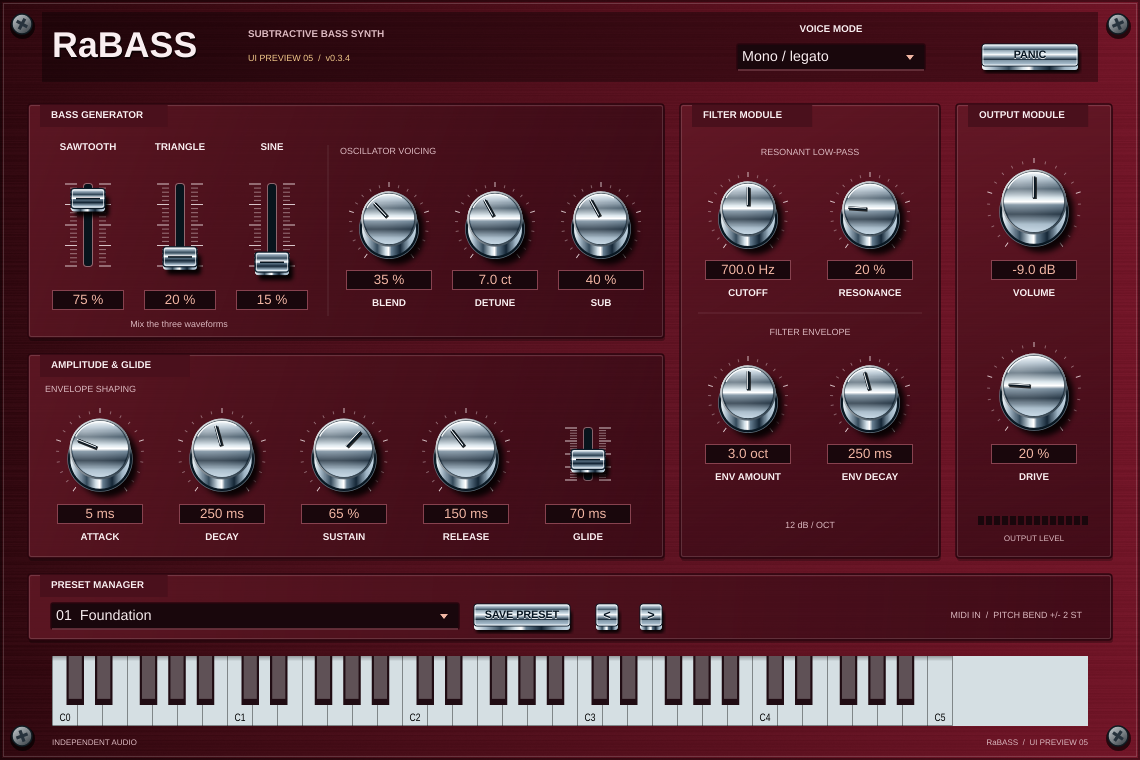
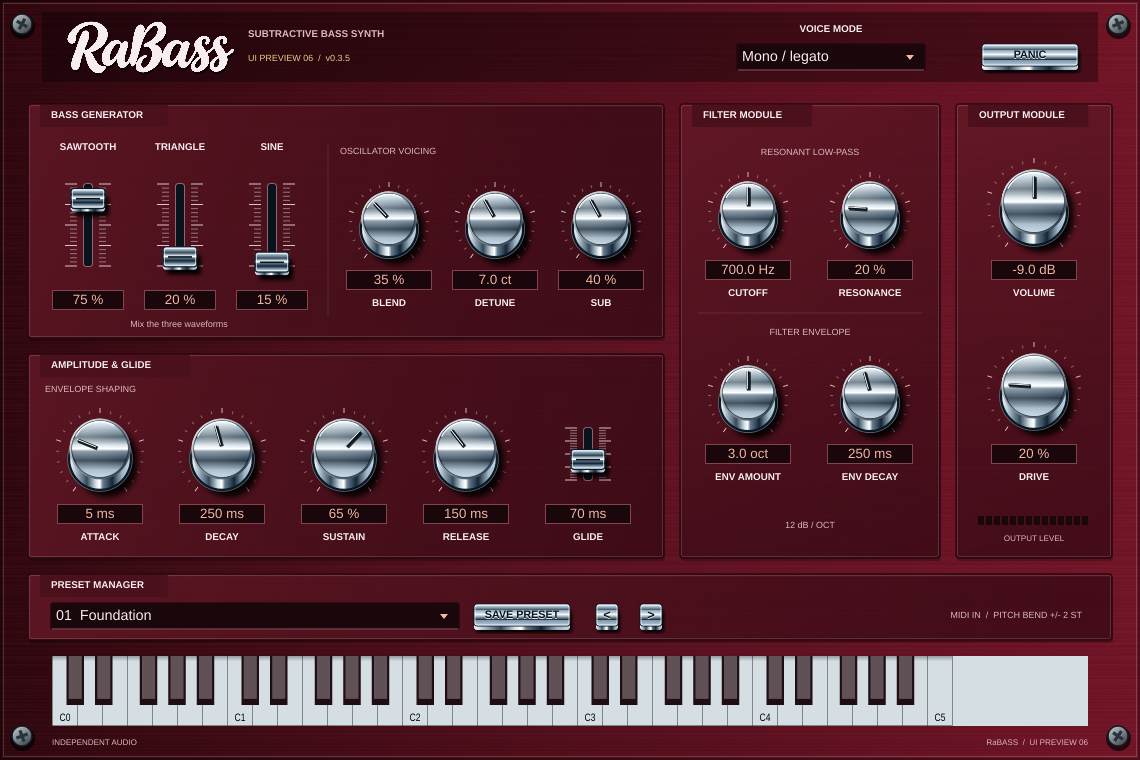
Replace the plugin header title with brush-script RaBass artwork

Changed region(s): [[0.0307, 0.0303, 0.2149, 0.0908]]

diff --git a/Source/PluginEditor.cpp b/Source/PluginEditor.cpp
@@ -1,4 +1,5 @@
 #include "PluginEditor.h"
+#include "RaBASSArtwork.h"
 namespace
 {
 const juce::Colour ink{0xfff9eef0}, muted{0xffdcb9c0}, accent{0xfff2b6a4};
@@ -242,7 +243,9 @@ bool BassSlider::keyPressed(const juce::KeyPress& key)
     return juce::Slider::keyPressed(key);
 }
 RaBASSEditor::RaBASSEditor(RaBASSProcessor& p)
-    : AudioProcessorEditor(p), processor(p), keyboard(p.keyboard,juce::MidiKeyboardComponent::horizontalKeyboard), metalSurface(createMetalSurface())
+    : AudioProcessorEditor(p), processor(p), keyboard(p.keyboard,juce::MidiKeyboardComponent::horizontalKeyboard),
+      metalSurface(createMetalSurface()),
+      wordmark(juce::ImageCache::getFromMemory(RaBASSArtwork::RaBassLogo_png,RaBASSArtwork::RaBassLogo_pngSize))
 {
     setLookAndFeel(&look); setSize(editorWidth,editorHeight); setResizable(false,false);
     const auto setLabel=[this](juce::Label& label,const char* text)
@@ -348,13 +351,14 @@ void RaBASSEditor::paint(juce::Graphics& g)
     g.setColour(juce::Colours::black.withAlpha(.34f)); g.drawRect(getLocalBounds(),2);
     g.setColour(juce::Colours::white.withAlpha(.17f)); g.drawRect(getLocalBounds().reduced(3),1);
     g.setColour(juce::Colours::black.withAlpha(.35f)); g.fillRect(42,12,1056,70);
-    g.setFont(juce::FontOptions(40.0f,juce::Font::bold));
-    g.setColour(juce::Colours::black.withAlpha(.6f)); g.drawText("RaBASS",53,23,185,48,juce::Justification::centredLeft);
-    g.setColour(ink); g.drawText("RaBASS",52,21,185,48,juce::Justification::centredLeft);
+    g.setColour(juce::Colours::black.withAlpha(.6f));
+    g.drawImageWithin(wordmark,53,16,190,64,juce::RectanglePlacement::centred,true);
+    g.setColour(ink);
+    g.drawImageWithin(wordmark,52,14,190,64,juce::RectanglePlacement::centred,true);
     g.setFont(juce::FontOptions(11.0f,juce::Font::bold)); g.setColour(muted);
     g.drawText("SUBTRACTIVE BASS SYNTH",248,25,330,18,juce::Justification::centredLeft);
     g.setColour(amber); g.setFont(juce::FontOptions(10.0f));
-    g.drawText("UI PREVIEW 05  /  v" JucePlugin_VersionString,248,49,330,18,juce::Justification::centredLeft);
+    g.drawText("UI PREVIEW 06  /  v" JucePlugin_VersionString,248,49,330,18,juce::Justification::centredLeft);
     drawPanel(g,{28,104,636,234},"BASS GENERATOR");
     drawPanel(g,{680,104,260,454},"FILTER MODULE");
     drawPanel(g,{956,104,156,454},"OUTPUT MODULE");
@@ -378,7 +382,7 @@ void RaBASSEditor::paint(juce::Graphics& g)
     g.setColour(muted); g.setFont(juce::FontOptions(9.0f));
     g.drawText("OUTPUT LEVEL",978,532,112,14,juce::Justification::centred);
     g.drawText("INDEPENDENT AUDIO",52,735,330,16,juce::Justification::centredLeft);
-    g.drawText("RaBASS  /  UI PREVIEW 05",780,735,308,16,juce::Justification::centredRight);
+    g.drawText("RaBASS  /  UI PREVIEW 06",780,735,308,16,juce::Justification::centredRight);
     drawScrew(g,22,24,.5f); drawScrew(g,1118,24,-.4f); drawScrew(g,22,736,-.35f); drawScrew(g,1118,736,.6f);
 }
 void RaBASSEditor::resized()

diff --git a/Source/PluginEditor.h b/Source/PluginEditor.h
@@ -63,7 +63,7 @@ private:
     juce::TextButton previousPreset{"<"}, nextPreset{">"};
     juce::TextButton savePreset{"SAVE PRESET"};
     juce::Component::SafePointer<juce::AlertWindow> presetDialog;
-    juce::Image metalSurface;
+    juce::Image metalSurface, wordmark;
     float displayedPeak=0;
     JUCE_DECLARE_NON_COPYABLE_WITH_LEAK_DETECTOR(RaBASSEditor)
 };

diff --git a/README.md b/README.md
@@ -1,4 +1,4 @@
-# RaBASS 0.3.4 — UI Preview 05: Fine Cutoff
+# RaBASS 0.3.5 — UI Preview 06: Script Logo
 
 **Subtractive synthesis bass synth** za Windows 10/11 x64, u **VST3** formatu.
 CMake projekt za Visual Studio 2026 i MIDI trake u Ableton Liveu 12.
@@ -10,6 +10,9 @@ nešto više tipke. Dimenzije su 1140 × 760. Područja za povlačenje kontrola
 ostaju dovoljno velika za rad mišem.
 Paneli, izbornici, polja s vrijednostima i oznake koriste usklađenu
 tamnocrvenu paletu; kromirane kontrole i njihov reljef ostaju sačuvani.
+Naziv **RaBass** u zaglavlju sada je rukopisni logotip sa spojenim slovima,
+u svijetloj boji na tamnocrvenoj podlozi. Logotip je ugrađen u plugin pa
+ne zahtijeva instalaciju dodatnog fonta.
 Oscilatori, filter, envelope, output i preseti imaju zaseban prostor.
 Izbornik preseta ima odjeljke **Factory presets** i **User presets**,
 tipku **SAVE PRESET** te tipke za prethodni/sljedeći preset.
@@ -63,8 +66,8 @@ Lijevi i desni kanal identični su radi centriranog basa.
 
 ## Preuzimanje i Ableton Live 12
 
-Preuzmite `RaBASS-0.3.4-Windows-x64-VST3.zip` iz
-[Fine Cutoff Preview izdanja](https://github.com/voyagersquare/RaBASS/releases/tag/v0.3.4-ui-preview.5).
+Preuzmite `RaBASS-0.3.5-Windows-x64-VST3.zip` iz
+[Script Logo Preview izdanja](https://github.com/voyagersquare/RaBASS/releases/tag/v0.3.5-ui-preview.6).
 Paket je dostupan i u **Actions → Windows VST3 → uspješan run → Artifacts**.
 Releases uključuje izvor RaBASS-a, odgovarajući JUCE source i `SHA256SUMS.txt`.
 
